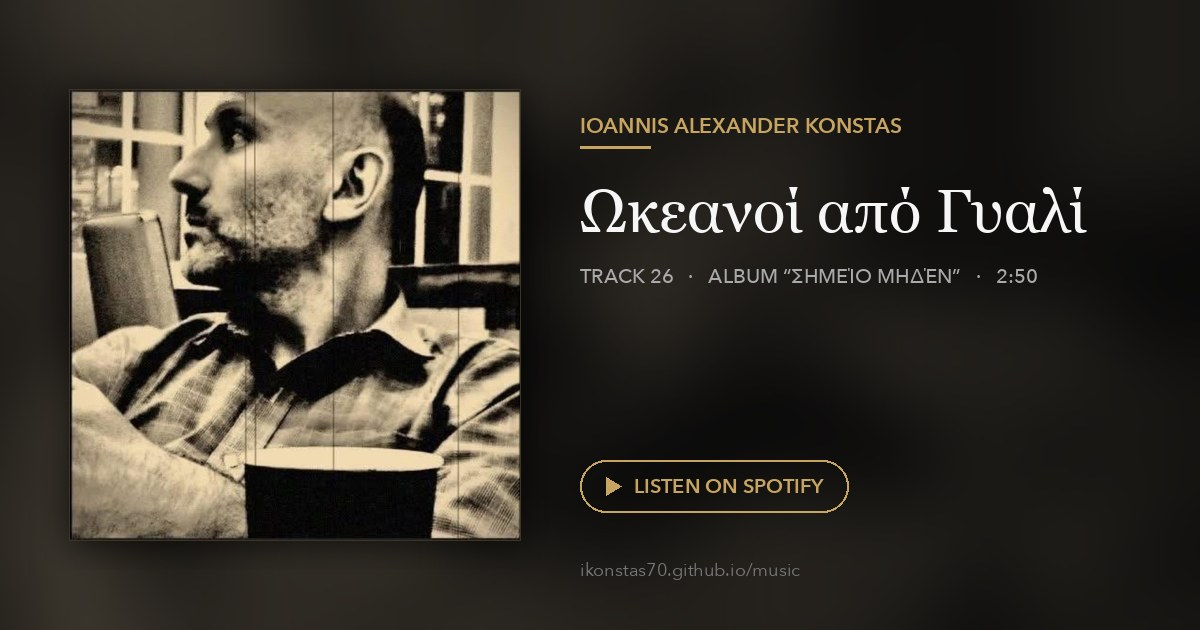
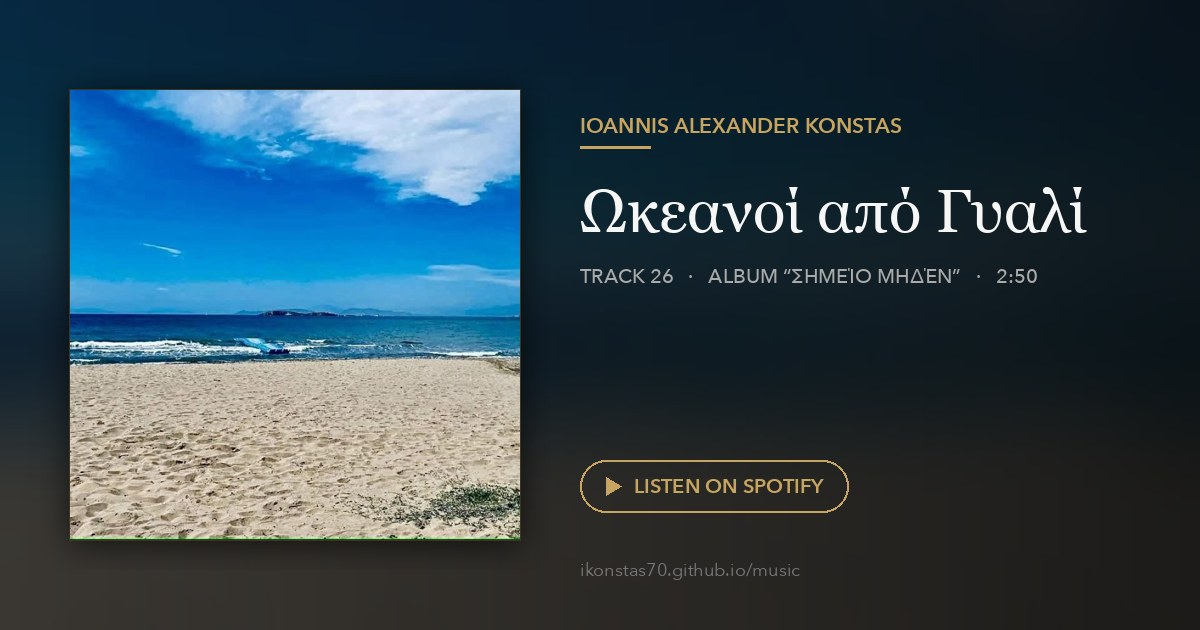
Give "Ωκεανοί από Γυαλί" its own cover instead of the Σημείο Μηδέν album cover
Custom beach photo, center-cropped to square, fits the track's title
("Oceans of Glass").

diff --git a/tracks/okeanoi-apo-gyali.html b/tracks/okeanoi-apo-gyali.html
@@ -12,8 +12,8 @@
 <meta property="og:url" content="https://ikonstas70.github.io/music/tracks/okeanoi-apo-gyali.html">
 <meta property="og:title" content="Ωκεανοί από Γυαλί — Ioannis Alexander Konstas">
 <meta property="og:description" content="Ωκεανοί από Γυαλί — track 26 from the Album “Σημείο Μηδέν” by Ioannis Alexander Konstas. Stream on Spotify.">
-<meta property="og:image" content="https://ikonstas70.github.io/music/share/tracks/okeanoi-apo-gyali.jpg?v=37c97692">
-<meta property="og:image:secure_url" content="https://ikonstas70.github.io/music/share/tracks/okeanoi-apo-gyali.jpg?v=37c97692">
+<meta property="og:image" content="https://ikonstas70.github.io/music/share/tracks/okeanoi-apo-gyali.jpg?v=6541a185">
+<meta property="og:image:secure_url" content="https://ikonstas70.github.io/music/share/tracks/okeanoi-apo-gyali.jpg?v=6541a185">
 <meta property="og:image:type" content="image/jpeg">
 <meta property="og:image:width" content="1200">
 <meta property="og:image:height" content="630">
@@ -22,7 +22,7 @@
 <meta name="twitter:card" content="summary_large_image">
 <meta name="twitter:title" content="Ωκεανοί από Γυαλί — Ioannis Alexander Konstas">
 <meta name="twitter:description" content="Ωκεανοί από Γυαλί — track 26 from the Album “Σημείο Μηδέν” by Ioannis Alexander Konstas. Stream on Spotify.">
-<meta name="twitter:image" content="https://ikonstas70.github.io/music/share/tracks/okeanoi-apo-gyali.jpg?v=37c97692">
+<meta name="twitter:image" content="https://ikonstas70.github.io/music/share/tracks/okeanoi-apo-gyali.jpg?v=6541a185">
 
 <link rel="stylesheet" href="/music/style.css">
 </head>
@@ -39,7 +39,7 @@
   </header>
 
   <main>
-    <img class="album-cover" src="../covers/../cover-simeio-midev.jpg" alt="Σημείο Μηδέν cover art">
+    <img class="album-cover" src="../covers/tracks/okeanoi-apo-gyali.jpg" alt="Ωκεανοί από Γυαλί cover art">
     <h1 style="text-align:center">Ωκεανοί από Γυαλί</h1>
     <p class="meta" style="text-align:center">Track 26 from the Album <a href="/music/albums/simeio-miden.html">Σημείο Μηδέν</a> &middot; 2:50 &middot; 2026</p>
 
